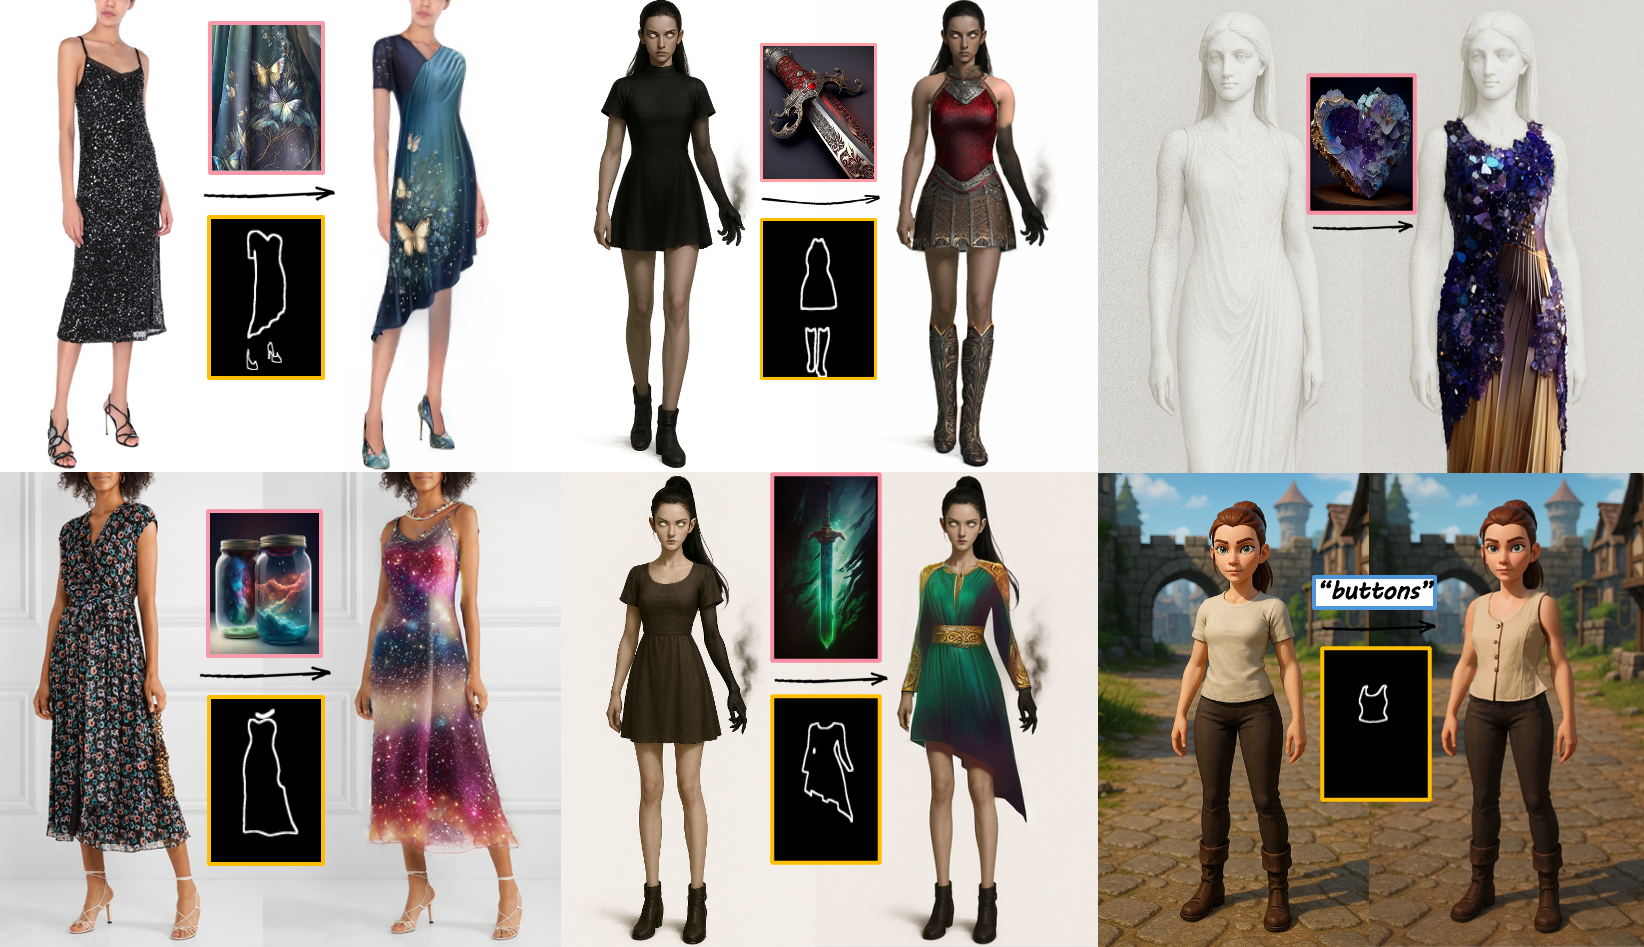
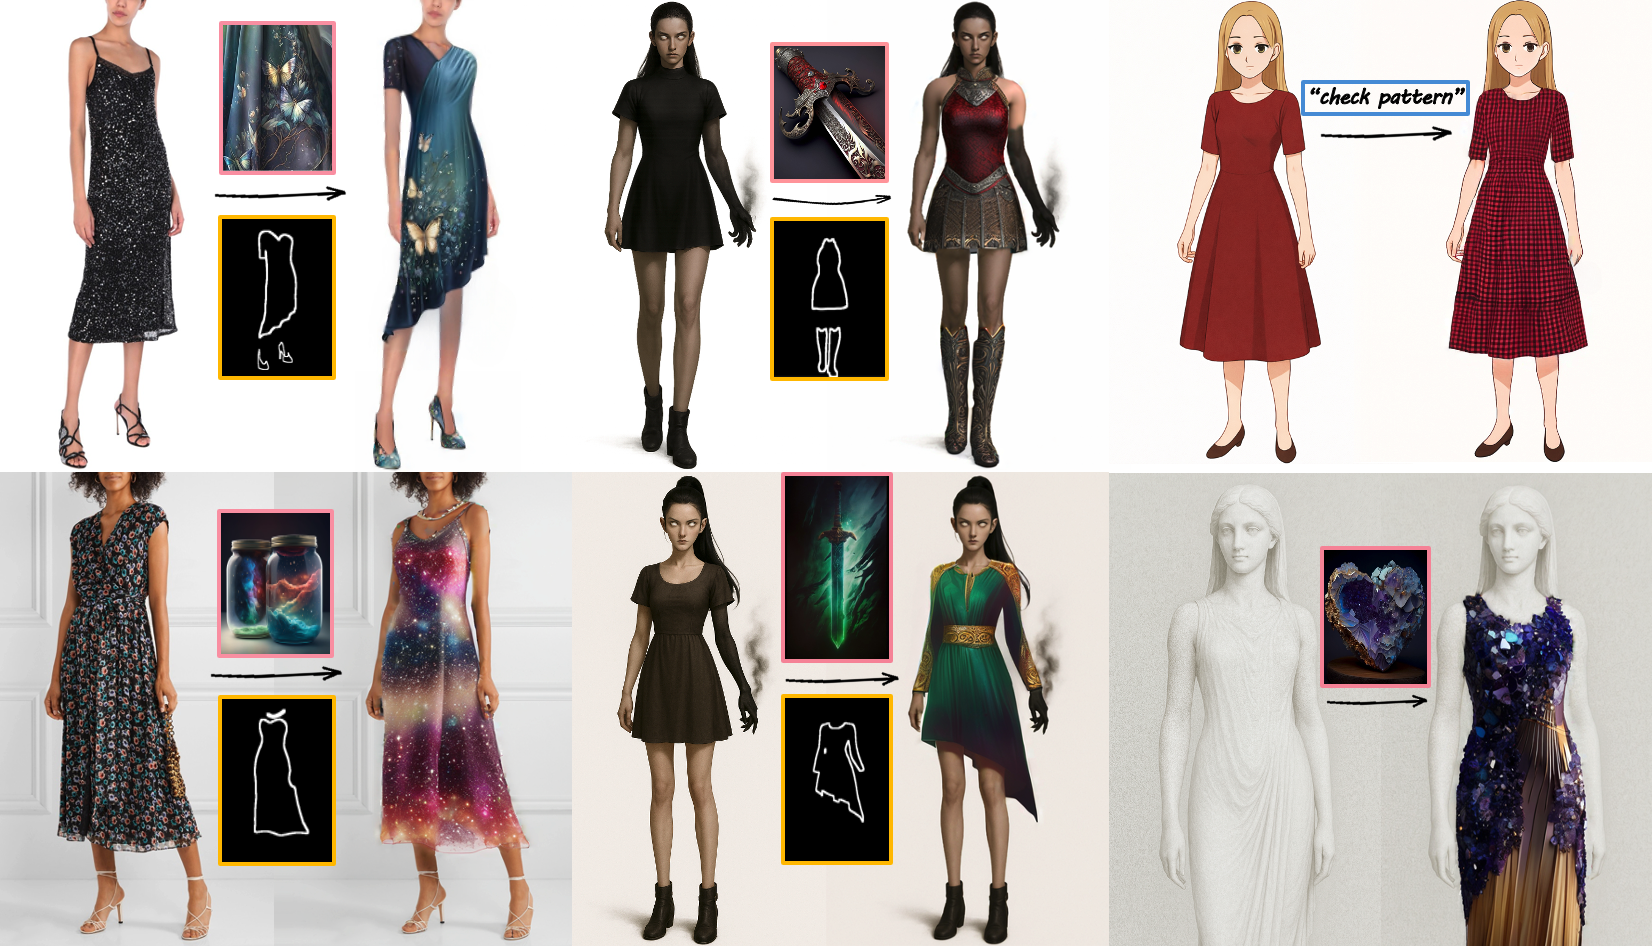
Update teaser

diff --git a/index.html b/index.html
@@ -116,8 +116,8 @@
 								<!-- <li><a href="#" class="icon brands alt fa-twitter"><span class="label">Twitter</span></a></li>
 								<li><a href="#" class="icon brands alt fa-facebook-f"><span class="label">Facebook</span></a></li> -->
 								<!-- <li><a href="#" class="icon brands alt fa-instagram"><span class="label">Instagram</span></a></li> -->
-								<li><a href="#" class="icon brands alt fa-github"><span class="label">GitHub</span></a></li>
-								<li><a href="#" class="icon brands alt fa-linkedin-in"><span class="label">LinkedIn</span></a></li>
+								<li><a href="https://github.com/soyekwon" class="icon brands alt fa-github"><span class="label">GitHub</span></a></li>
+								<!-- <li><a href="#" class="icon brands alt fa-linkedin-in"><span class="label">LinkedIn</span></a></li> -->
 							</ul>
 							<!-- <ul class="copyright">
 								<li>&copy; Untitled</li><li>Design: <a href="https://html5up.net">HTML5 UP</a></li>
